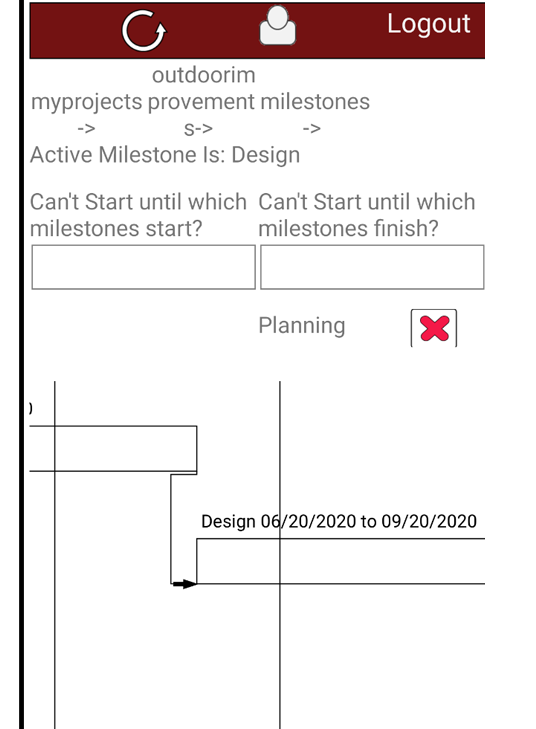
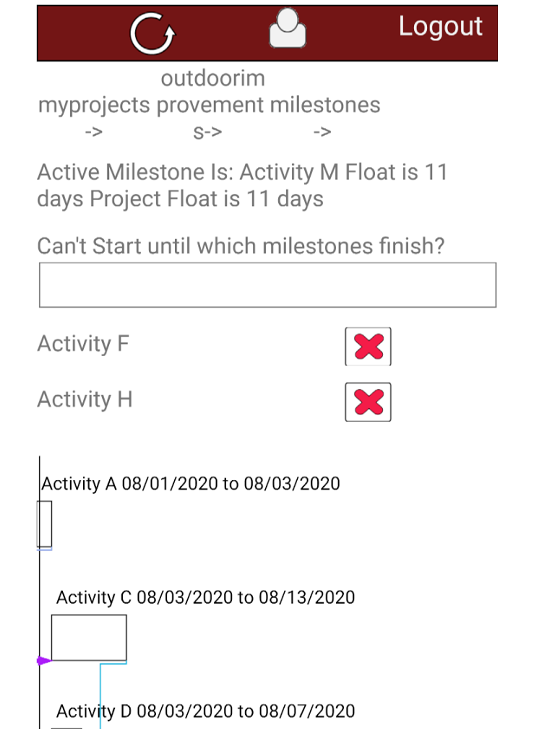
updated handle milestone

Changed region(s): [[0.0299, 0.0, 0.9552, 1.0]]

diff --git a/components/criticalpath.js b/components/criticalpath.js
@@ -27,7 +27,7 @@ class CriticalPath {
 
                 // eslint-disable-next-line
                 milestone.predessors.map(predessor => {
-                    let milestoneid = predessor.predessoremoveIconr;
+                    let milestoneid = predessor.predessor
                     let type = predessor.type;
                     if (type === 'start-to-start') {
                         let mymilestone = pm.getmilestonebyid.call(this, milestoneid)
@@ -121,7 +121,7 @@ class CriticalPath {
                     if (type === 'start-to-finish') {
                         let mymilestone = pm.getmilestonebyid.call(this, milestoneid)
                         jsx.push(
-                            <View style={{ ...styles.generalFlex, ...styles.bottomMargin15 }} key={`predessor${milestoneid}`}>
+                            <View style={{ ...styles.generalFlex, ...styles.bottomMargin15 }} key={`predessor${milestoneid}${this.state.activemilestoneid}`}>
                                 <View style={{ ...styles.flex2 }}>
                                     <Text style={{ ...regularFont, ...styles.generalFont }}>{mymilestone.milestone}</Text>
                                 </View>

diff --git a/components/myapp.js b/components/myapp.js
@@ -138,12 +138,12 @@ const milestone = new Milestone();
   handlemilestones(projectid) {
     this.props.reduxNavigation({ navigation: 'milestones' })
     this.props.reduxProject({ projectid })
-    this.setState({ message: "" })
+    this.setState({ activemilestoneid:false })
   }
 
   handleproposals(projectid) {
     this.props.reduxNavigation({ navigation: 'proposals' })
-    this.props.reduxProject({ projectid })
+    this.props.reduxProject({ projectid }) 
     this.setState({ message: "" })
   }
 

diff --git a/components/functions/enviornmentalvariables.js b/components/functions/enviornmentalvariables.js
@@ -6,7 +6,7 @@ class EnvironmentalVariables {
             development: {
                 stripeClient: 'pk_test_4ZCejPXp1eoTTdAlwpZW3a4M',
                 androidPayMode: 'test',
-                serverAPI: 'http://54.237.78.142:8081'
+                serverAPI: 'http://54.242.252.72:8081'
             },
             production: {
                 stripeClient: 'pk_live_NGJS73N6Hmokpws9S1Qn8Nxs',

diff --git a/components/pm.js b/components/pm.js
@@ -13,6 +13,7 @@ class PM {
         const paths = pm.getpaths.call(this)
         let float = 0;
         let i = 0;
+        if(paths) {
         for (let mypath in paths[milestoneid]['paths']) {
 
             let floatcheck = paths[milestoneid]['paths'][mypath]['float']
@@ -24,6 +25,9 @@ class PM {
 
             i += 1;
         }
+
+    }
+    
         return float;
 
     }
